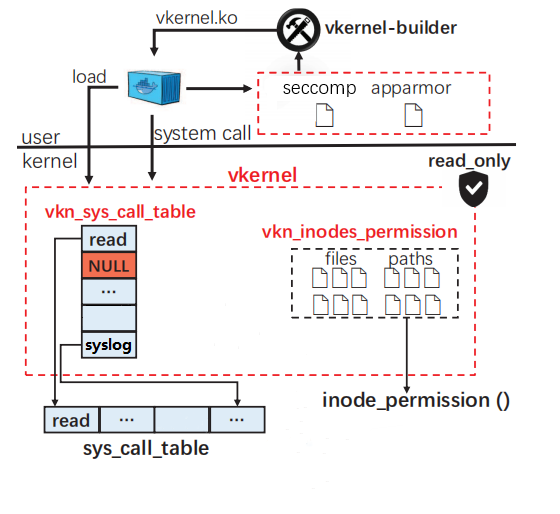
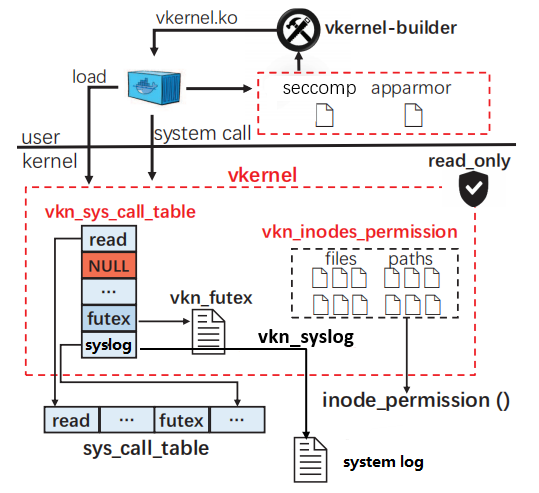
Update README and architecture image

Changed region(s): [[0.0297, 0.0, 0.9499, 1.0], [0.0297, 0.5781, 0.0594, 0.7606], [0.8312, 0.6998, 0.8609, 0.7302]]

diff --git a/docs/README_EN.md b/docs/README_EN.md
@@ -12,7 +12,7 @@ A customizable, pluggable lightweight virtual kernel for containers on the Linux
 
 vkernel contains the following parts:
 
-- **module**: vkernel module (vkernel.ko). It's the key of VKernel, which realizes the virtualization and security of kernel resources for the container.
+- **module**: vkernel module (vkernel.ko,vkernel_hook.ko). They are the keys of VKernel, that realize the virtualization and security of kernel resources for the container.
 - **builder**: A tool for building vkernel module. It analyzes container images' system call and automatically build vkernel module based on seccomp, apparmor rules.
 - **runtime**: A container runtime that calls the vkernel module. The runtime is [OCI](https://github.com/opencontainers/runtime-spec)-compatible and based on [runc 1.0.0-rc92](https://github.com/opencontainers/runc/tree/v1.0.0-rc92).
 - **kernel**: The Linux kernel running the vkernel module, based on [Linux 5.7](https://github.com/torvalds/linux/tree/v5.7)。
@@ -22,9 +22,12 @@ vkernel contains the following parts:
 vkernel implements the following features:
 
 - **virtual kernel security isolation**
-  - **system call isolation**: Creating a separate system call table for each container.
+  - **system call isolation**: Creating a separate system call table for each container,and take the futex subsystem as
+an example to implement the isolated *futex()* system call for containers.
   - **file access control**: Implementing custom access rules for files and directories based on inode virtualization.
   - **process permission control**: Container-oriented dual Capabilities protection.
+  - **syslog isolation**: Implementing isolated log file access for containers.
+  
 - **virtual kernel build process**
   - **automatic build tools**: Automatically build vkernel modules based on apparmor and seccomp profiles.
 
@@ -56,6 +59,8 @@ $ cd vkernel_kernel
 ```
 
 For details, refer to the Linux kernel compilation and installation method.
+
+Note: Option CONFIG_VKERNEL=y needs to be added into the configuration file to support Vkernel. We provide a [config-5.7.0]() file that fits Ubuntu 20.04.
 
 ### Install vkernel module
 
@@ -111,7 +116,10 @@ For details, refer to the Linux kernel compilation and installation method.
 2. Enter the vkernel module directory, compile the kernel module and install it.
 
    ```bash
-   $ cd vkernel_module
+   $ cd vkernel_module/vKM
+   $ make
+   $ sudo insmod vkernel_hook.ko
+   $ cd ../vKI
    $ make
    $ sudo make install
    ```
@@ -151,6 +159,60 @@ $ docker run --rm --runtime=vkernel-runtime -itd ubuntu /bin/bash
[1 lines of base64/hex data omitted]
 $ lsmod | grep vkernel
 vkernel_265d5c39c6a8    40960  0
+```
+
+## Test
+
+In order to facilitate the testing of Vkernel, we provide [test scripts](scripts/).
+
+1. Pull images
+
+You need to pull the following images in advance:
+
+- nginx
+```bash
+$ docker pull nginx:latest
+```
+
+- apache-benchmark
+```bash
+$ docker pull jordi/ab:latest
+```
+
+- pwgen
+```bash
+$ docker pull backplane/pwgen:latest
+```
+
+2. Install components
+
+If you wish to compare different container runtimes, the following components need to be installed in advance. Otherwise, skip to **Step 3**.
+
+- gVisor
+- kata
+
+For details, refer to gVisor and kata installation methods.
+
+3. Test with scripts
+
+- Nginx
+
+```bash
+$ cd scripts
+Run with default runtime:
+$ ./nginx.sh original
+Run with other runtimes:
+$ ./nginx.sh vkernel-runtime(runsc/kata-runtime)
+```
+
+- Pwgen
+
+```bash
+$ cd scripts
+Run with default runtime:
+$ ./pwgen.sh original
+Run with other runtimes:
+$ ./pwgen.sh vkernel-runtime(runsc/kata-runtime)
 ```
 
 ## Contribution
